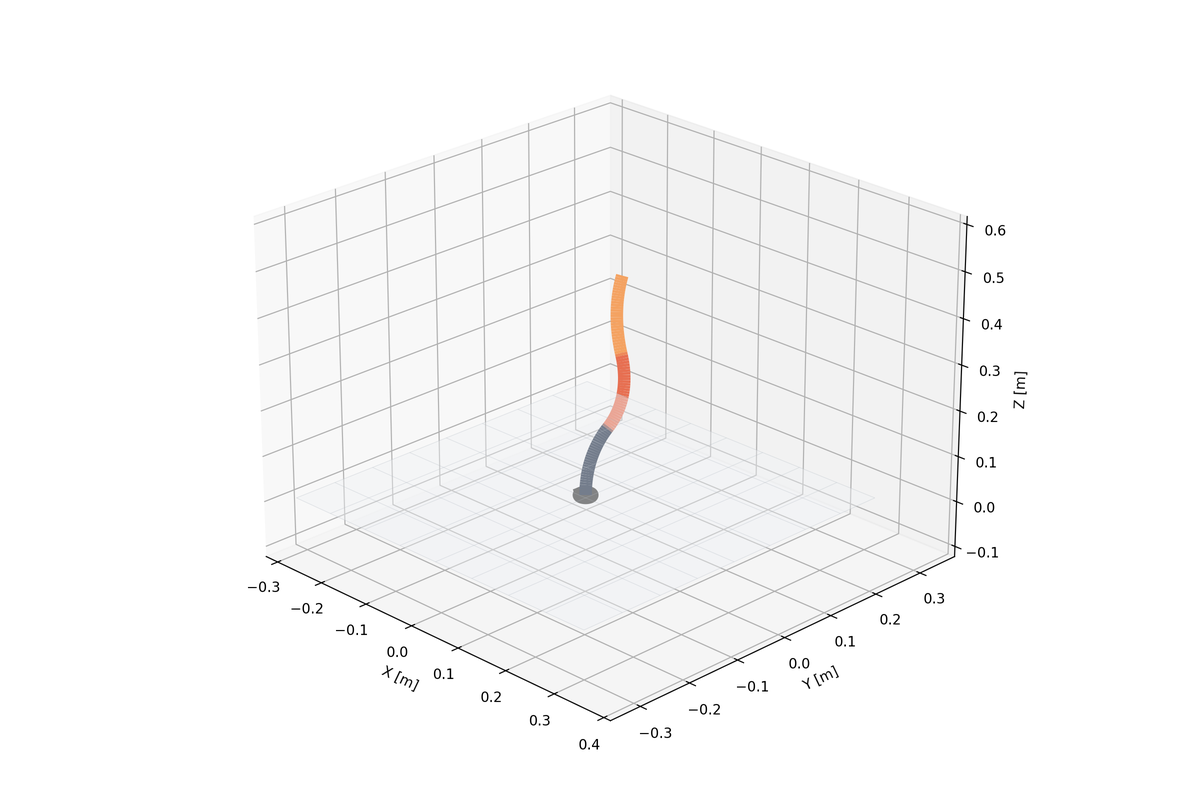
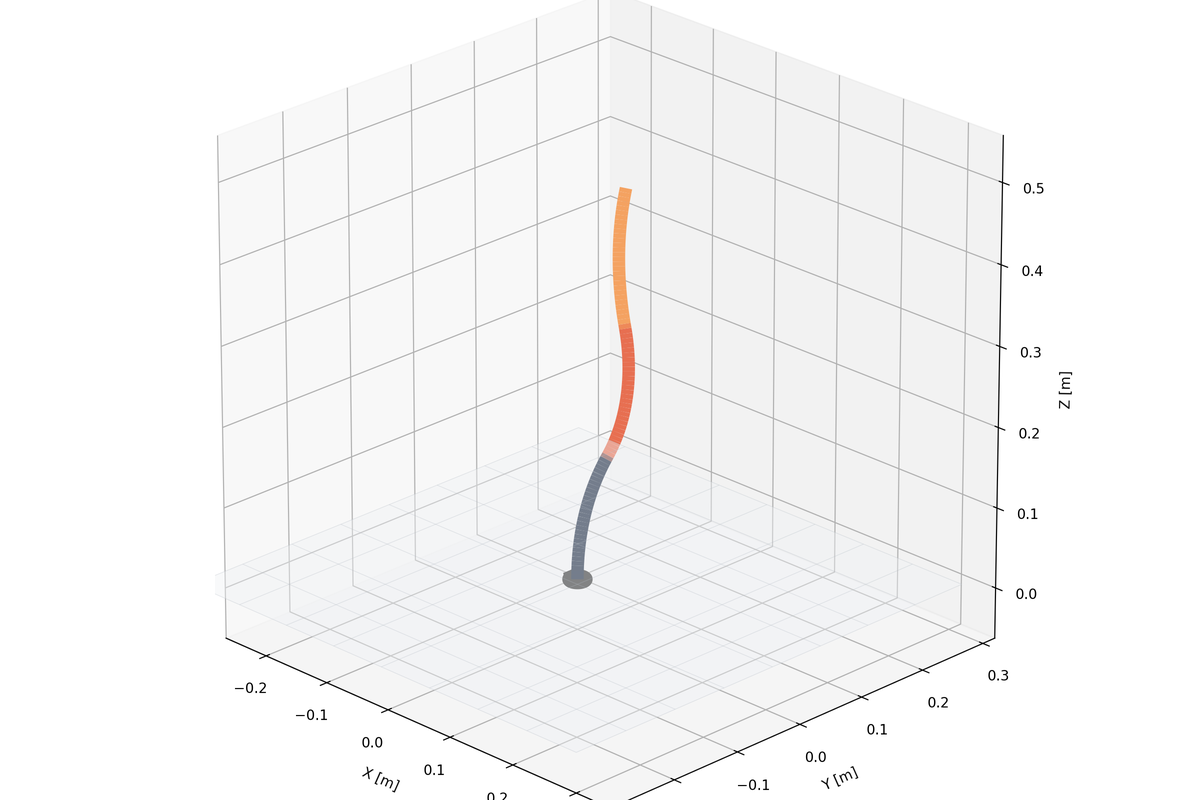
docs: refine renderer framing and navigation

diff --git a/src/soromox/rendering/matplotlib_renderer.py b/src/soromox/rendering/matplotlib_renderer.py
@@ -110,8 +110,8 @@ class MatplotlibRenderer(BaseSoftRobotRenderer):
                 batched layouts. When provided for a single robot, accepts (dim,) or
                 (1, dim).
             color_config: Shared renderer color configuration.
-            camera_config: Camera configuration. Note: For Matplotlib, only position
-                and look_at are used to set view angle for 3D plots.
+            camera_config: Camera configuration. Matplotlib uses its field of view
+                and the direction from position to look-at for 3D plots.
             render_actuators: Whether to render actuator visual layers if available.
             actuator_inputs: Optional actuator inputs for scalar-colored layers.
 
@@ -255,8 +255,8 @@ class MatplotlibRenderer(BaseSoftRobotRenderer):
             base_offsets: Optional explicit base offsets for batched layouts
                 (N, 2/3) or (1, dim) for single robot.
             color_config: Shared renderer color configuration.
-            camera_config: Camera configuration. Note: For Matplotlib, only position
-                and look_at are used to set view angle for 3D plots.
+            camera_config: Camera configuration. Matplotlib uses its field of view
+                and the direction from position to look-at for 3D plots.
             render_actuators: Whether to render actuator visual layers if available.
             actuator_inputs: Optional actuator inputs for scalar-colored layers.
 
@@ -304,8 +304,8 @@ class MatplotlibRenderer(BaseSoftRobotRenderer):
             record_path: Optional path to save animation (mp4/gif depending on writer)
             base_offsets: Optional explicit base offsets for batched layouts
             color_config: Shared renderer color configuration.
-            camera_config: Camera configuration. Note: For Matplotlib, only position
-                and look_at are used to set view angle for 3D plots.
+            camera_config: Camera configuration. Matplotlib uses its field of view
+                and the direction from position to look-at for 3D plots.
             render_actuators: Whether to render actuator visual layers if available
             actuator_inputs: Optional actuator inputs for scalar-colored layers.
 
@@ -763,8 +763,8 @@ class MatplotlibRenderer(BaseSoftRobotRenderer):
             interval: Frame interval in ms
             record_path: Optional path to save animation
             playback_speed: Multiplier for playback speed
-            camera_config: Camera configuration. Note: For Matplotlib, only position
-                and look_at are used to set view angle for 3D plots.
+            camera_config: Camera configuration. Matplotlib uses its field of view
+                and the direction from position to look-at for 3D plots.
             color_config: Shared renderer color configuration.
             render_actuators: Whether to render actuator visual layers if available
             actuator_inputs: Optional actuator inputs for scalar-colored layers.
@@ -1038,7 +1038,9 @@ class MatplotlibRenderer(BaseSoftRobotRenderer):
             content_extent = (
                 float(scene_extent) if scene_extent is not None else width_m
             )
-            plot_extent = max(1.45 * self.L_max, 1.2 * content_extent)
+            plot_extent = max(1.15 * self.L_max, 1.1 * content_extent)
+            if self.show_ground_plane:
+                plot_extent = max(plot_extent, self._resolve_ground_plane_size())
             half_extent = 0.5 * plot_extent
             ax.set_xlim(center[0] - half_extent, center[0] + half_extent)
             ax.set_ylim(center[1] - half_extent, center[1] + half_extent)
@@ -1047,6 +1049,18 @@ class MatplotlibRenderer(BaseSoftRobotRenderer):
             ax.set_ylabel("Y [m]")
             ax.set_zlabel("Z [m]")
             config = camera_config or CameraConfig()
+            fov = float(np.clip(config.fov, 1.0, 179.0))
+            focal_length = 1.0 / np.tan(np.deg2rad(fov) / 2.0)
+            if hasattr(ax, "set_proj_type"):
+                ax.set_proj_type("persp", focal_length=focal_length)
+            if hasattr(ax, "set_box_aspect"):
+                default_half_fov = np.deg2rad(CameraConfig().fov) / 2.0
+                zoom = np.clip(
+                    np.tan(default_half_fov) / np.tan(np.deg2rad(fov) / 2.0),
+                    0.85,
+                    1.2,
+                )
+                ax.set_box_aspect((1.0, 1.0, 1.0), zoom=float(zoom))
             camera_pos, look_at = config.compute_auto_position(
                 center,
                 content_extent,

diff --git a/tests/rendering/test_base_renderer.py b/tests/rendering/test_base_renderer.py
@@ -227,6 +227,8 @@ class DummyRenderer(BaseSoftRobotRenderer):
 class FakeMatplotlib3DAxis:
     def __init__(self):
         self.view = None
+        self.projection = None
+        self.box_aspect = None
 
     def set_xlim(self, *args):
         return None
@@ -245,6 +247,12 @@ class FakeMatplotlib3DAxis:
 
     def set_zlabel(self, *args):
         return None
+
+    def set_proj_type(self, projection, *, focal_length):
+        self.projection = (projection, float(focal_length))
+
+    def set_box_aspect(self, aspect, *, zoom):
+        self.box_aspect = (tuple(aspect), float(zoom))
 
     def view_init(self, *, elev, azim):
         self.view = (float(elev), float(azim))
@@ -592,6 +600,32 @@ def test_matplotlib_3d_default_camera_uses_base_pose_orientation():
         ]
     )
     assert_allclose(np.array(axis.view), expected_view, atol=1e-12)
+    assert axis.projection is not None
+    assert axis.projection[0] == "persp"
+    assert axis.projection[1] == pytest.approx(
+        1.0 / np.tan(np.deg2rad(CameraConfig().fov) / 2.0)
+    )
+    assert axis.box_aspect == ((1.0, 1.0, 1.0), 1.0)
+
+
+def test_matplotlib_3d_camera_uses_shared_field_of_view():
+    robot = DummySpatialRobot(jnp.array([1.0, 0.0, 0.0, 0.0, 0.0, 0.0, 0.0]))
+    renderer = MatplotlibRenderer(robot)
+    axis = FakeMatplotlib3DAxis()
+
+    renderer._setup_axes(
+        axis,
+        width_m=3.0,
+        scene_center=np.zeros(3),
+        scene_extent=1.0,
+        camera_config=CameraConfig(fov=45.0),
+    )
+
+    assert axis.projection == (
+        "persp",
+        pytest.approx(1.0 / np.tan(np.deg2rad(45.0) / 2.0)),
+    )
+    assert axis.box_aspect == ((1.0, 1.0, 1.0), 1.2)
 
 
 def test_open3d_interactive_camera_front_points_from_eye_to_target():

diff --git a/docs/api/rendering/configuration.md b/docs/api/rendering/configuration.md
@@ -27,12 +27,16 @@ renderer.show(q, camera_config=camera)
 
 | Parameter | Type | Default | Description |
 |-----------|------|---------|-------------|
-| `fov` | float | 60.0 | Field of view in degrees |
+| `fov` | float | 75.0 | Field of view in degrees |
 | `position` | tuple | None | Explicit camera position (x, y, z), None for auto |
 | `look_at` | tuple | None | Point camera looks at, None for scene center |
 | `up` | tuple | (0, 0, 1) | Camera up vector |
-| `distance_factor` | float | 2.0 | Multiplier for auto-positioning distance |
-| `position_offset` | tuple | None | Direction vector for camera placement |
+| `distance_factor` | float | 10.0 | Multiplier for auto-positioning distance |
+| `position_offset` | tuple | (0.8, -0.8, 0.5) | Direction vector for camera placement |
+
+Matplotlib applies `fov` and the viewing direction from `position` to
+`look_at`; its axes limits determine the remaining framing. Open3D and Viser
+also use the explicit camera distance.
 
 ::: soromox.rendering.camera_config.CameraConfig
     options:
@@ -57,6 +61,10 @@ override.
 | `base_plate_thickness` | Sets the base-plate thickness in meters | Open3D and Viser |
 | `show_ground_plane` | Shows or hides the base-aligned reference plane | Matplotlib, Open3D, and Viser |
 | `ground_plane_size` | Sets the reference-plane side length in meters; `None` uses a robot-scaled default | Matplotlib, Open3D, and Viser |
+
+Visibility and sizing are intentionally independent: set `show_ground_plane`
+to `False` to hide the plane, or leave `ground_plane_size=None` to show it with
+an automatically chosen size.
 
 ```python
 from soromox.rendering import ViserRenderer

diff --git a/docs/api/utilities/index.md b/docs/api/utilities/index.md
@@ -4,7 +4,8 @@ Utility modules and helper functions for SoRoMoX.
 
 ## Overview
 
-This section contains utility modules that provide supporting functionality for robot systems, including parameter management and symbolic derivation tools.
+This section contains utility modules that provide supporting functionality for
+robot systems, including parameter management, geometry, and Lie algebra tools.
 
 ## Available Utilities
 
@@ -16,15 +17,6 @@ Parameter handling, validation, and default configurations for soft robot system
 - Validation functions for parameter dictionaries
 - Conversion utilities between parameter representations
 - Factory functions for common robot configurations
-
-### [Symbolic Derivation](symbolic-derivation.md)
-
-Symbolic mathematics and derivation utilities using SymPy for soft robot modeling.
-
-- Symbolic derivation of kinematics and dynamics
-- Code generation from symbolic expressions
-- Verification of mathematical correctness
-- Reference implementations for new robot types
 
 ### [Geometry](geometry.md)
 
@@ -45,6 +37,5 @@ Explicit namespaces for rigid-body and constant-strain operators.
 ## Quick Links
 
 - [Parameters API Reference](parameters.md) - Parameter management utilities
-- [Symbolic Derivation API Reference](symbolic-derivation.md) - Symbolic math tools
 - [Geometry API Reference](geometry.md) - Pose, rotation, and error utilities
 - [Lie Algebra API Reference](lie-algebra.md) - Lie group and constant-strain utilities

diff --git a/docs/development/changelog.md b/docs/development/changelog.md
@@ -27,6 +27,14 @@ and this project adheres to [Semantic Versioning](https://semver.org/spec/v2.0.0
   control-oriented interface, installation, performance, and first use.
 - Kept Citation at the top level of the documentation navigation immediately
   after Paper & Results, and grouped the supported systems following the paper.
+- Reorganized the rendering documentation into an overview and gallery,
+  backend API guide, and shared configuration reference; normalized Python
+  examples throughout the generated package documentation as fenced code.
+- Applied the shared camera field of view and tighter scene framing to
+  Matplotlib's 3D renderer, bringing its gallery view closer to Open3D and
+  Viser while retaining metric axes.
+- Placed Actuation before Control in the API navigation and removed the
+  outdated symbolic-derivation documentation page.
 - Moved detailed contributor and documentation tooling into the development
   guide and made `VERSION_BUMP_README.md` the authoritative maintainer release
   workflow, including the branch, pull-request, tag, and recovery procedures.

diff --git a/docs/api/overview.md b/docs/api/overview.md
@@ -68,7 +68,8 @@ The [Actuation](actuation/index.md) module provides utilities for modeling and w
 The [Utilities](utilities/index.md) module includes:
 
 - **[Parameters](utilities/parameters.md)**: Parameter handling, validation, and default configurations for soft robot systems
-- **[Symbolic Derivation](utilities/symbolic-derivation.md)**: Symbolic mathematics and derivation utilities using SymPy for soft robot modeling
+- **[Geometry](utilities/geometry.md)**: Pose encodings, rotations, and geometric errors
+- **[Lie Algebra](utilities/lie-algebra.md)**: Rigid-body and constant-strain operators
 
 ---
 
